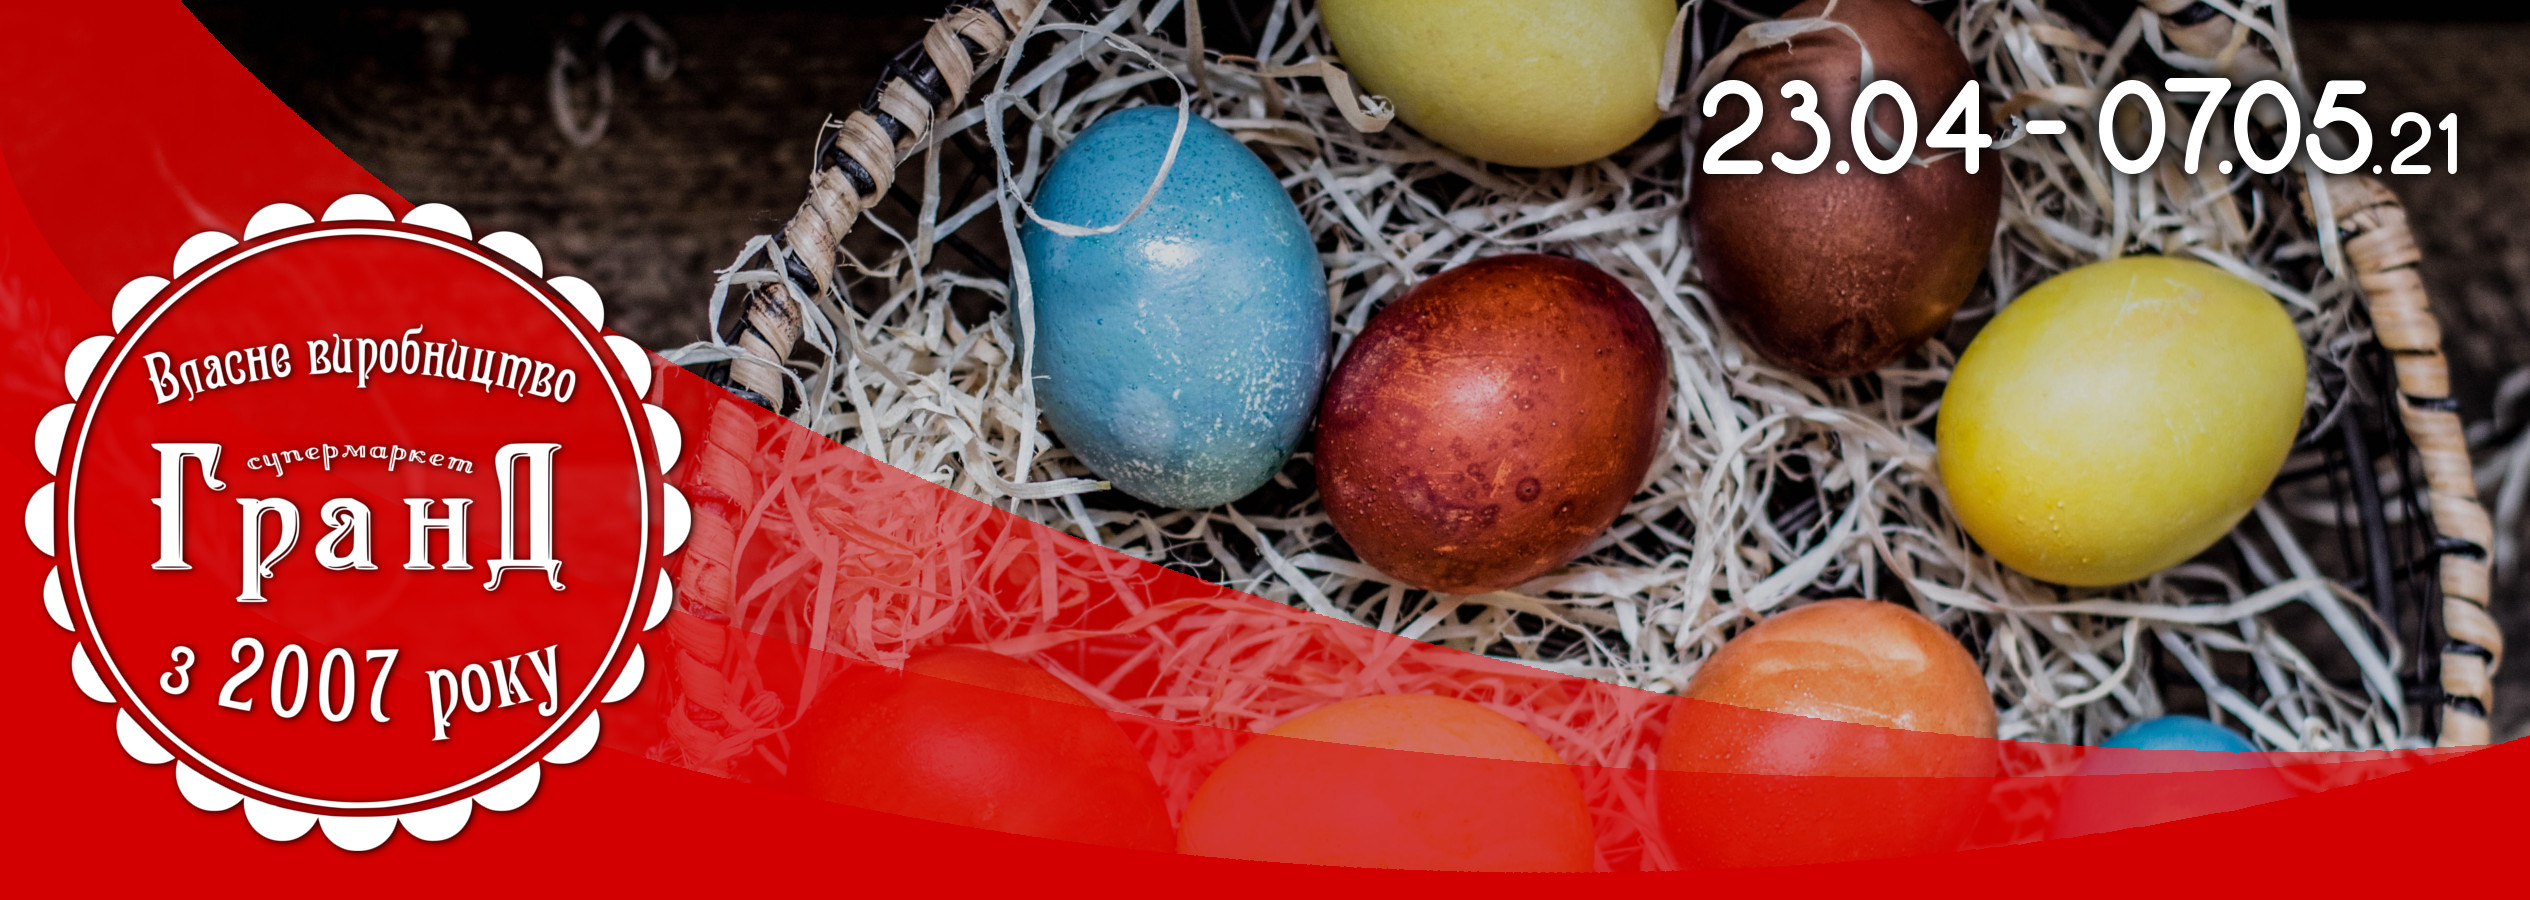
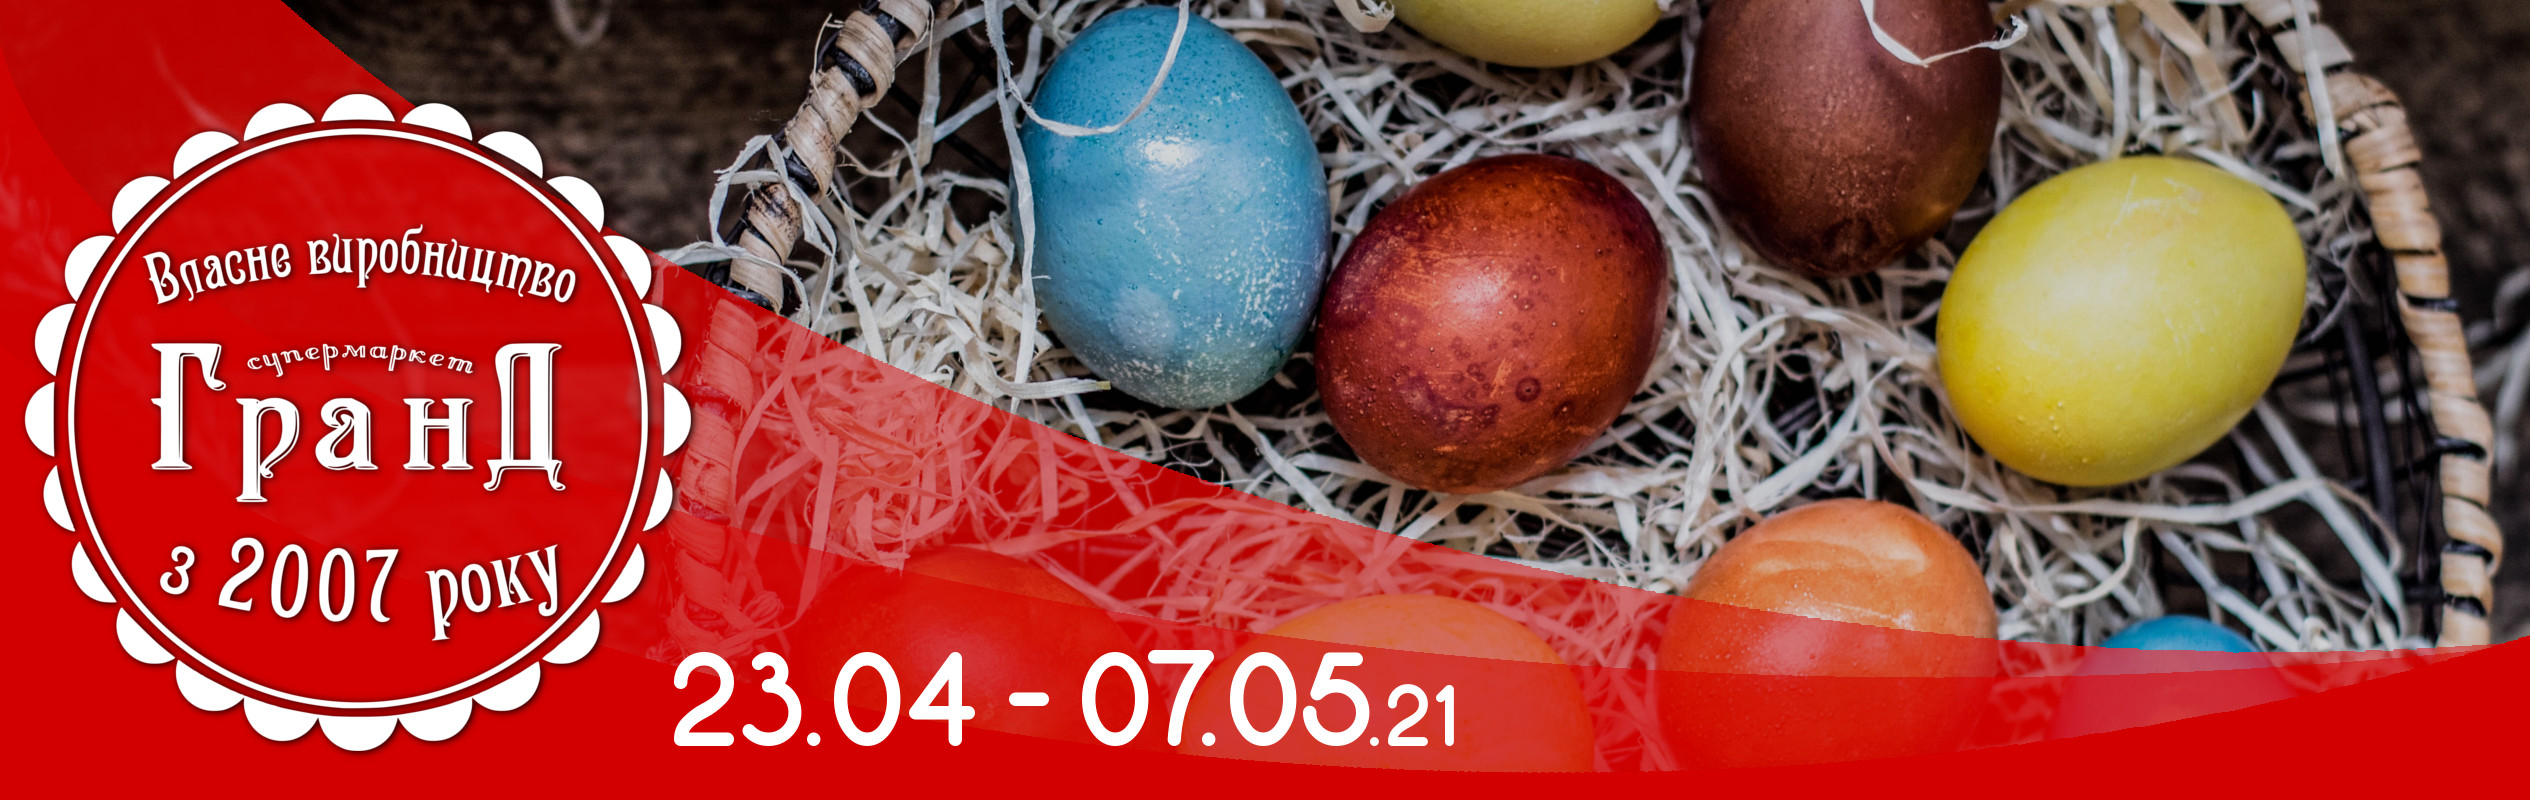
buk-v3

diff --git a/grand/buklet/base1.js b/grand/buklet/base1.js
@@ -7,13 +7,25 @@ let base = [
     {pic: '31', desc: `Торт "Снікерс"$100г`, disc:'20%', priceN:'1049', priceO:'1300'},
     {pic: '27', desc: `Торт "Баунті"$100г`, disc:'20%', priceN:'1299', priceO:'1600'},
     {pic: '28', desc: `Торт"Весна"$100г`, disc:'35%', priceN:'1100', priceO:'1650'},
-    {pic: '0', desc: `Торт"Богема"$100г`, disc:'20%', priceN:'1349', priceO:'1700'},
+    {pic: '50', desc: `Торт"Богема"$100г`, disc:'20%', priceN:'1349', priceO:'1700'},
     {pic: '35', desc: `Круасан "GRAND FOOD" з пломбіром$100г`, disc:'35%', priceN:'790', priceO:'1200'},
     {pic: '33', desc: `Слойка "GRAND FOOD" з творогом та родзинками$100г`, disc:'40%', priceN:'790', priceO:'1300'},
-    {pic: '29', desc: `Тісто "GRAND FOOD" листкове прісне$500г`, disc:'20%', priceN:'2390', priceO:'3000'},
     {pic: '34', desc: `Паска$400г`, disc:'25%', priceN:'4000', priceO:'5490'},
     {pic: '30', desc: `Хлібець "Заварний"$400г`, disc:'30%', priceN:'1290', priceO:'1799'},
     {pic: '26', desc: `Булочка "З вишнями$ 100г`, disc:'30%', priceN:'800', priceO:'1200'},
+    
+    {pic: '42', desc:`Багет "GRAND FOOD"$в асортименті$230г`, disc:'25%', priceO:'2500', priceN:'1900'},
+    {pic: '41', desc:`Курятина запечена$в асортименті$100г `, disc:'25%', priceO:'1299', priceN:'999'},
+    
+    {pic: '44', desc:`Голубці "По Закарпатськи"$100г`, disc:'40%', priceO:'990', priceN:'599'},
+    {pic: '48', desc:`Стегенце куряче охолоджене$100г`, disc:'10%', priceO:'899', priceN:'799'},
+    {pic: '46', desc:`Гомілка індича охолоджена$100г`, disc:'10%', priceO:'739', priceN:'669'},
+    {pic: '47', desc:`Стегно куряче "Авіньйон"$100г`, disc:'15%', priceO:'1099', priceN:'939'},
+    {pic: '49', desc:`Шашлик "Класичний" свинний з шовдиря$100г`, disc:'10%', priceO:'1449', priceN:'1299'},
+    {pic: '40', desc:`Фарш асорті(свинно-яловичий) охолоджений$100г`, disc:'10%', priceO:'1199', priceN:'1079'},
+    {pic: '45', desc:`Бекон свинний копчений$100г`, disc:'20%', priceO:'1499', priceN:'1199'},
+    {pic: '43', desc:`Смалець$500г`, disc:'30%', priceO:'3290', priceN:'2290'},
+    {pic: '29', desc: `Тісто "GRAND FOOD" листкове прісне$500г`, disc:'20%', priceN:'2390', priceO:'3000'},
 
     {size:"rozd", pic:'0', desc: ` `, disc: " ", priceO: " ", priceN: " "},
 
@@ -37,38 +49,14 @@ let base = [
     {pic: '2', desc: `Мінеральна вода "Маргіт" Лужанська-7$1.5л`, disc:'25%', priceO:'1290', priceN: '990'},
     {pic: '20', desc: `Hапій "Кока-кола", "Фанта" та "Спрайт"$2л`, disc:'XIT', priceO:'', priceN: '2450'},
     
-    {pic: '21', desc: `Пиво "Спраглий  монах"$0.550л`, disc:'30%', priceO:'2550', priceN: '1750'},
+    {pic: '21', desc: `Пиво "Спраглий монах"$0.550л`, disc:'30%', priceO:'2550', priceN: '1750'},
     {pic: '22', desc: `Настоянка "Бехеровка" 38%$0,5л`, disc:'25%', priceO:'25900', priceN: '19900'},
     {pic: '9', desc: `Коньяк "Закарпатський"$0.5л `, disc:'20%', priceO:'18990', priceN: '15690'},
     {pic: '25', desc: `Горілка "Держава"$0,5л`, disc:'XIT', priceO:'', priceN: '9900'},
 
     {pic: '8', desc: `Шоколад "Мілка"$в асортименті$100г`, disc:'25%', priceO:'2800', priceN: '2190'},
-    {pic: '37', desc: `Цукерки "Мілленіум" Елеганс асорті молочні$143г`, disc:'0%', priceO:'5790', priceN: '000'},
+    {pic: '37', desc: `Цукерки "Мілленіум" Елеганс асорті молочні$143г`, disc:'25%', priceO:'6700', priceN: '4990'},
     {pic: '10', desc: `Чіпси "Люкс"$в асортименті$133г`, disc:'30%', priceO:'3300', priceN: '2400'},
     {pic: '13', desc: `Лаваш "Діжо"$в асортименті$250г`, disc:'25%', priceO:'3750', priceN: '2850'},
-
-
-
-    // {pic: '13', desc:`Кефір "Ферма" 2,5%$840г`,disc:'25%', priceO:'3250', priceN:'2490'},
-    // {pic: '10', desc:`Йогурт "Дольче" в асортименті$280г`,disc:'30%', priceO:'2600', priceN:'1850'},
-    // {pic: '30', desc:`Десерт "Машенька" сирковий 5%$140г`,	disc:'25%', priceO:'2490', priceN:'1890'},
-    // {pic: '28', desc:`Сардельки "Царські"$ТМ"Добрі товари"$100г`, disc:'30%', priceO:'1100', priceN:'770'},
-    // {pic: '9', desc:`Ковбаса "Галицька"$ТМ"Світ мяса"$100г`,	disc:'25%', priceO:'1170', priceN:'890'},
-    // {pic: '14', desc:`Скумбрія морожена$100г`,	disc:'25%', priceO:'949', priceN:'749'},
-    // {pic: '8', desc:`Ікра "Веладіс" тріски$100г`,disc:'30%', priceO:'2590', priceN:'1890'},
-    // {pic: '12', desc:`Hапій "Пепсі"$2л`,disc:'XIT', priceO:'2500', priceN:'2190'},
-    // {pic: '34', desc:`Вода мінеральна "Карпатська джерельна"$1.5л`,disc:'40%', priceO:'1290', priceN:'790'},
-    // {pic: '11', desc:`Пиво "ППБ" Свіжий розлив"$0,65л`, 	disc:'25%', priceO:'1990', priceN:'1490'},
-    // {pic: '3a', desc:`Суміш "Весняна Семикомпонента"$ТМ "Ласка"$100г`,	disc:'30%', priceO:'499', priceN:'359'},
-    // {pic: '31', desc:`Пельмені "Смаком" домашні свинина$800г`,disc:'30%', priceO:'6750', priceN:'4750'},
-    // {pic: '6', desc:`Печиво "Рошен" До кави$185г`,disc:'35%', priceO:'1250', priceN:'850'},
-    // {pic: '32', desc:`Чіпси "Лейз"$в асортименті$133г`,disc:'30%', priceO:'3490', priceN:'2490'},
-    // {pic: '33', desc:`Сік "Садочок"$в асортименті$0,95л`,disc:'35%', priceO:'2650', priceN:'1690'},
-    // {pic: '7', desc:`Чай "Три Слона" чорний$2г*25пак`,	disc:'25%', priceO:'1900', priceN:'1450'},
-    // {pic: '35', desc:`Какао-напій" "Несквік"$200гр`,	disc:'25%', priceO:'4200', priceN:'3090'},
-    // {pic: '29', desc:`Вафлі "З Халвою"$ТМ "Бондей$100г`,	disc:'30%', priceO:'890', priceN:'640'},
-    // {pic: '15', desc:`Грейпфрут`,disc:'XIT', priceO:'', priceN:''},
-    // {pic: '40', desc:`Лимон`,disc:'XIT', priceO:'', priceN:''},
-
 
 ]

diff --git a/grand/buklet/css/styles4.css b/grand/buklet/css/styles4.css
@@ -189,7 +189,7 @@ p.toPrevMode:hover {
 .header {
     /* margin-bottom: -783px; */
     /* display: none; */
-    height: 930px;
+    height: 800px;
     background: url(../image/header.jpg) no-repeat;
     margin-bottom: -30px;
 }
